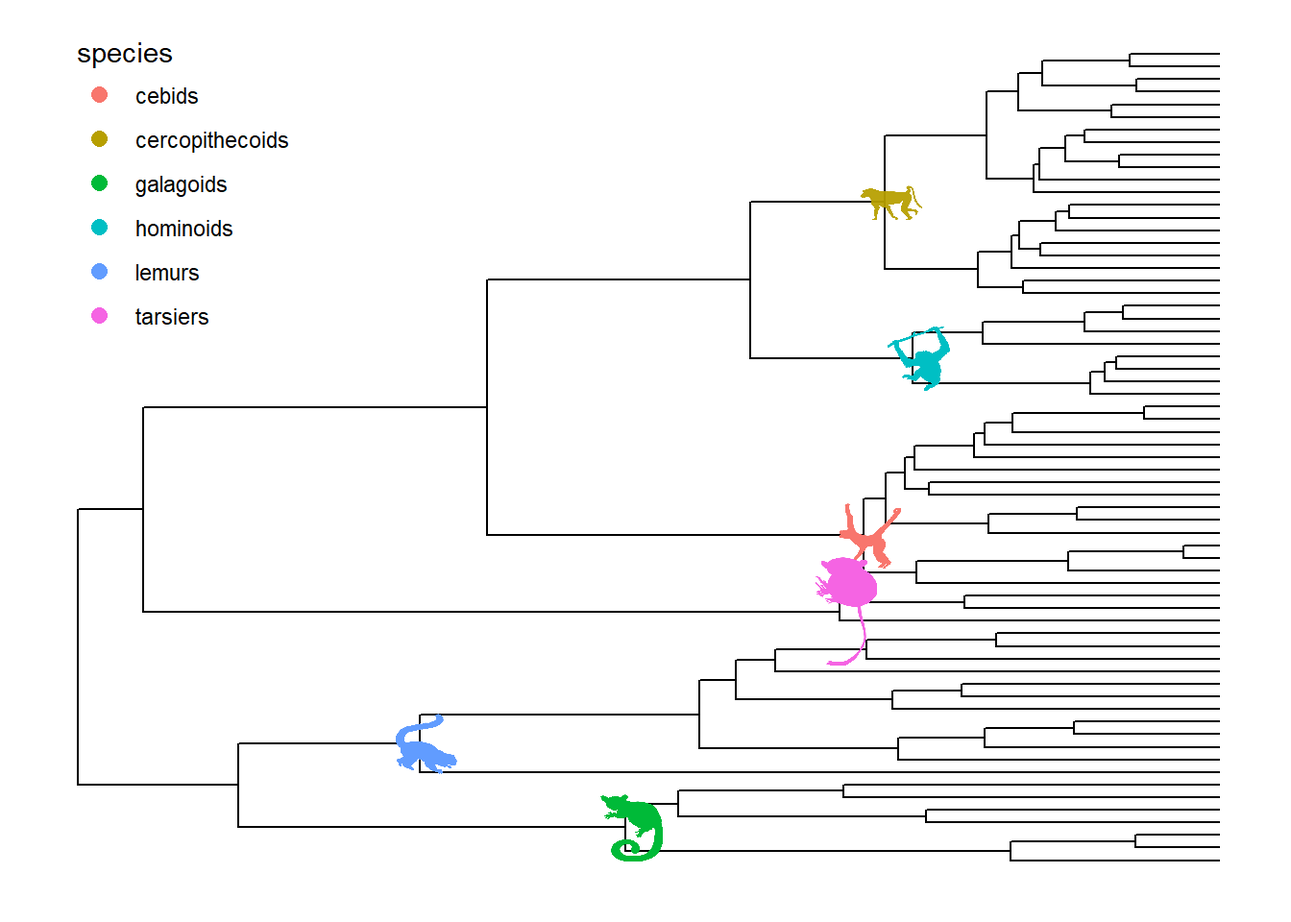
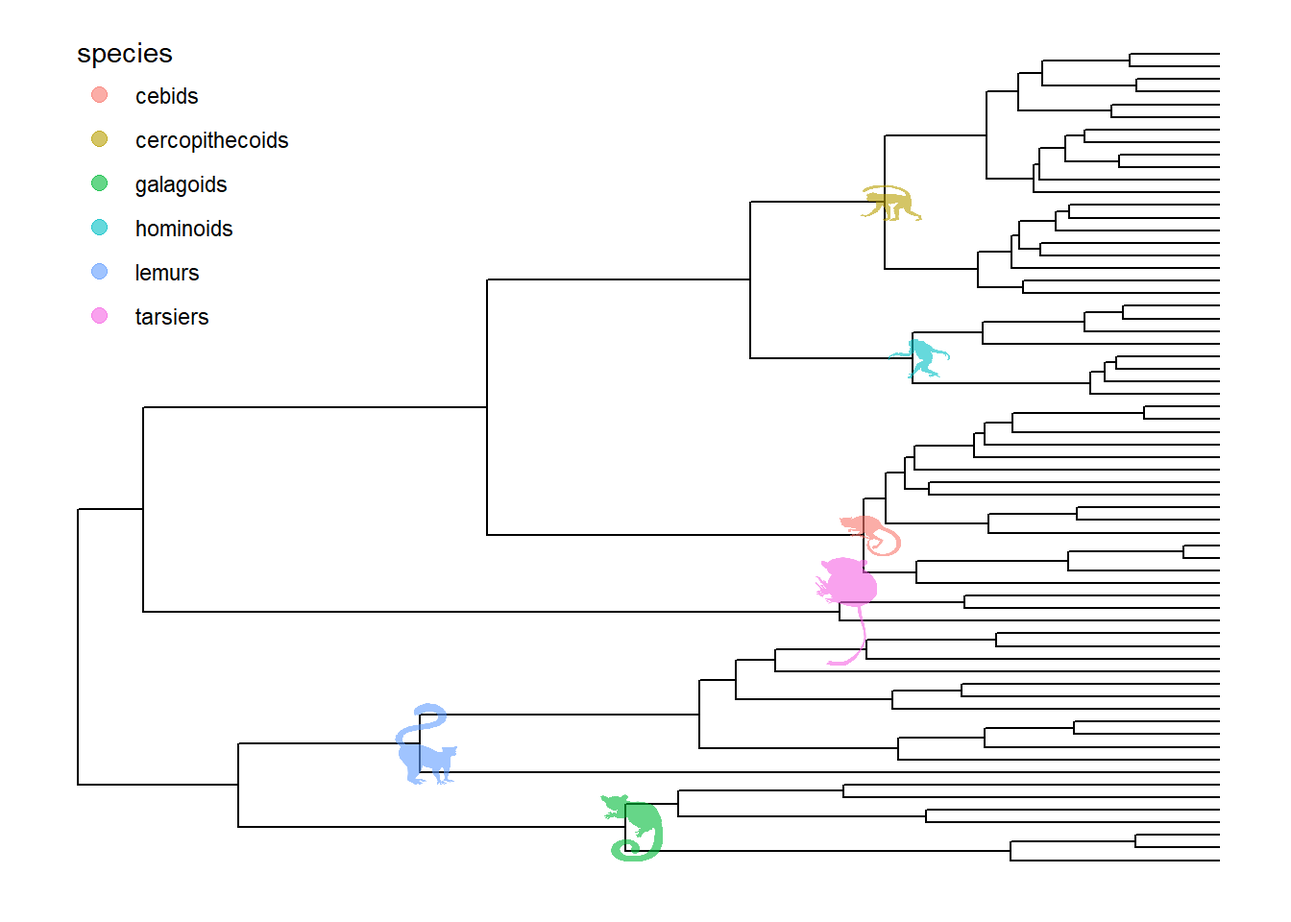
phylopic

diff --git a/docs/chapter8.html b/docs/chapter8.html
@@ -220,14 +220,14 @@ code span.wa { color: #60a0b0; font-weight: bold; font-style: italic; } /* Warni
 <li class="chapter" data-level="7.3" data-path="chapter7.html"><a href="chapter7.html#plot-tree-with-associated-data"><i class="fa fa-check"></i><b>7.3</b> Plot tree with associated data</a></li>
 </ul></li>
 <li class="chapter" data-level="8" data-path="chapter8.html"><a href="chapter8.html"><i class="fa fa-check"></i><b>8</b> Annotating Tree with Silhouette Images and Sub-plots</a><ul>
-<li class="chapter" data-level="8.1" data-path="chapter8.html"><a href="chapter8.html#annotating-tree-with-images"><i class="fa fa-check"></i><b>8.1</b> Annotating Tree with Images</a></li>
-<li class="chapter" data-level="8.2" data-path="chapter8.html"><a href="chapter8.html#annotating-tree-with-phylopic"><i class="fa fa-check"></i><b>8.2</b> Annotating Tree with Phylopic</a></li>
-<li class="chapter" data-level="8.3" data-path="chapter8.html"><a href="chapter8.html#annotating-tree-with-sub-plots"><i class="fa fa-check"></i><b>8.3</b> Annotating Tree with Sub-plots</a><ul>
+<li class="chapter" data-level="8.1" data-path="chapter8.html"><a href="chapter8.html#ggimage"><i class="fa fa-check"></i><b>8.1</b> Annotating Tree with Images</a></li>
+<li class="chapter" data-level="8.2" data-path="chapter8.html"><a href="chapter8.html#phylopic"><i class="fa fa-check"></i><b>8.2</b> Annotating Tree with Phylopic</a></li>
+<li class="chapter" data-level="8.3" data-path="chapter8.html"><a href="chapter8.html#subplots"><i class="fa fa-check"></i><b>8.3</b> Annotating Tree with Sub-plots</a><ul>
 <li class="chapter" data-level="8.3.1" data-path="chapter8.html"><a href="chapter8.html#annotate-with-bar-charts"><i class="fa fa-check"></i><b>8.3.1</b> Annotate with bar charts</a></li>
 <li class="chapter" data-level="8.3.2" data-path="chapter8.html"><a href="chapter8.html#annotate-with-pie-charts"><i class="fa fa-check"></i><b>8.3.2</b> Annotate with pie charts</a></li>
 <li class="chapter" data-level="8.3.3" data-path="chapter8.html"><a href="chapter8.html#annotate-with-other-types-of-charts"><i class="fa fa-check"></i><b>8.3.3</b> Annotate with other types of charts</a></li>
 </ul></li>
-<li class="chapter" data-level="8.4" data-path="chapter8.html"><a href="chapter8.html#have-fun-with-phylomoji"><i class="fa fa-check"></i><b>8.4</b> Have Fun with Phylomoji</a><ul>
+<li class="chapter" data-level="8.4" data-path="chapter8.html"><a href="chapter8.html#phylomoji"><i class="fa fa-check"></i><b>8.4</b> Have Fun with Phylomoji</a><ul>
 <li class="chapter" data-level="8.4.1" data-path="chapter8.html"><a href="chapter8.html#emoji-in-cirularfan-layout-tree"><i class="fa fa-check"></i><b>8.4.1</b> emoji in cirular/fan layout tree</a></li>
 <li class="chapter" data-level="8.4.2" data-path="chapter8.html"><a href="chapter8.html#emoji-to-label-clades"><i class="fa fa-check"></i><b>8.4.2</b> emoji to label clades</a></li>
 <li class="chapter" data-level="8.4.3" data-path="chapter8.html"><a href="chapter8.html#apple-color-emoji"><i class="fa fa-check"></i><b>8.4.3</b> Apple Color Emoji</a></li>
@@ -257,7 +257,7 @@ code span.wa { color: #60a0b0; font-weight: bold; font-style: italic; } /* Warni
             <section class="normal" id="section-">
 <div id="chapter8" class="section level1">
 <h1><span class="header-section-number">Chapter 8</span> Annotating Tree with Silhouette Images and Sub-plots</h1>
-<div id="annotating-tree-with-images" class="section level2">
+<div id="ggimage" class="section level2">
 <h2><span class="header-section-number">8.1</span> Annotating Tree with Images</h2>
 <p>We usually use text to label taxa, i.e. displaying taxa names. If the text is image file name (either local or remote), <strong>ggtree</strong> can read the image and display the actual image as label of the taxa. The <code>geom_tiplab</code> and <code>geom_nodelab</code> are capable to render silhouette image by internally called <a href="https://cran.r-project.org/package=ggimage">ggimage</a> package.</p>
 <pre class="sourceCode r"><code class="sourceCode r"><span class="kw">library</span>(ggimage)
@@ -273,26 +273,42 @@ x =<span class="st"> </span><span class="kw">read.tree</span>(<span class="dt">t
 <span class="st">    </span><span class="kw">geom_image</span>(<span class="dt">x=</span>.<span class="dv">8</span>, <span class="dt">y=</span><span class="fl">5.5</span>, <span class="dt">image=</span><span class="st">&quot;img/frogs/frog.jpg&quot;</span>, <span class="dt">size=</span>.<span class="dv">2</span>)</code></pre>
 <p><img src="treedata_files/figure-html/unnamed-chunk-120-1.png" width="816" /></p>
 </div>
-<div id="annotating-tree-with-phylopic" class="section level2">
+<div id="phylopic" class="section level2">
 <h2><span class="header-section-number">8.2</span> Annotating Tree with Phylopic</h2>
 <p><a href="phylopic.org">Phylopic</a> contains more than 3200 silhouettes and covers almost all life forms. <strong>ggtree</strong> also supports using phylopic<a href="#fn12" class="footnote-ref" id="fnref12"><sup>12</sup></a> to annotate the tree. Most importantly, we can color the image using numerical/categorical variable.</p>
 <pre class="sourceCode r"><code class="sourceCode r">tree &lt;-<span class="st"> </span>ape<span class="op">::</span><span class="kw">read.nexus</span>(<span class="st">&quot;https://raw.githubusercontent.com/rgriff23/Dissertation/master/Chapter_2/data/tree.nex&quot;</span>)
 phylopic_info &lt;-<span class="st"> </span><span class="kw">data.frame</span>(<span class="dt">node =</span> <span class="kw">c</span>(<span class="dv">124</span>, <span class="dv">113</span>, <span class="dv">110</span>, <span class="dv">96</span>, <span class="dv">89</span>, <span class="dv">70</span>),
-                            <span class="dt">phylopic =</span> <span class="kw">c</span>(<span class="st">&quot;7fb9bea8-e758-4986-afb2-95a2c3bf983d&quot;</span>,
-                                        <span class="st">&quot;bac25f49-97a4-4aec-beb6-f542158ebd23&quot;</span>,
-                                        <span class="st">&quot;f598fb39-facf-43ea-a576-1861304b2fe4&quot;</span>,
-                                        <span class="st">&quot;aceb287d-84cf-46f1-868c-4797c4ac54a8&quot;</span>,
-                                        <span class="st">&quot;0174801d-15a6-4668-bfe0-4c421fbe51e8&quot;</span>,
-                                        <span class="st">&quot;72f2f854-f3cd-4666-887c-35d5c256ab0f&quot;</span>),
+                            <span class="dt">phylopic =</span> <span class="kw">c</span>(<span class="st">&quot;c4ac9ea6-b465-4ed0-a5de-9fe4eebd3ef9&quot;</span>,
+                                        <span class="st">&quot;5388a472-994a-48e1-86de-d988c6019e72&quot;</span>,
+                                        <span class="st">&quot;615c82cf-fabe-49f8-b571-e8117edfa212&quot;</span>,
+                                        <span class="st">&quot;63ff1b70-6b6e-4412-b4d2-b2e2fb51aa95&quot;</span>,
+                                        <span class="st">&quot;d65d5abd-df8b-4509-912c-e42f6c34861f&quot;</span>,
+                                        <span class="st">&quot;6d54acc7-9e1e-4b79-be88-4904cf58fbb5&quot;</span>),
                             <span class="dt">species =</span> <span class="kw">c</span>(<span class="st">&quot;galagoids&quot;</span>, <span class="st">&quot;lemurs&quot;</span>, <span class="st">&quot;tarsiers&quot;</span>,
                                         <span class="st">&quot;cebids&quot;</span>, <span class="st">&quot;hominoids&quot;</span>, <span class="st">&quot;cercopithecoids&quot;</span>))
 pg &lt;-<span class="st"> </span><span class="kw">ggtree</span>(tree)
 pg <span class="op">%&lt;+%</span><span class="st"> </span>phylopic_info <span class="op">+</span><span class="st"> </span>
-<span class="st">  </span><span class="kw">geom_nodelab</span>(<span class="kw">aes</span>(<span class="dt">image=</span>phylopic, <span class="dt">color=</span>species, <span class="dt">subset=</span><span class="op">!</span><span class="kw">is.na</span>(species)), <span class="dt">geom=</span><span class="st">&quot;phylopic&quot;</span>) <span class="op">+</span><span class="st"> </span>
+<span class="st">  </span><span class="kw">geom_nodelab</span>(<span class="kw">aes</span>(<span class="dt">image=</span>phylopic, <span class="dt">color=</span>species, <span class="dt">subset=</span><span class="op">!</span><span class="kw">is.na</span>(species)), 
+              <span class="dt">geom=</span><span class="st">&quot;phylopic&quot;</span>, <span class="dt">alpha =</span> <span class="fl">.6</span>) <span class="op">+</span><span class="st"> </span>
 <span class="st">  </span><span class="kw">theme</span>(<span class="dt">legend.position=</span><span class="kw">c</span>(.<span class="dv">1</span>, <span class="fl">.8</span>))</code></pre>
 <p><img src="treedata_files/figure-html/phylopic-1.png" width="672" /></p>
+<p><code>ggimage</code> package supports querying phylopic uid from scientific name, which is very handy for annotating tree with phylopic.</p>
+<pre class="sourceCode r"><code class="sourceCode r"><span class="kw">require</span>(ggtree)
+newick =<span class="st"> &quot;((Pongo_abelii,(Gorilla_gorilla_gorilla,(Pan_paniscus,Pan_troglodytes)Pan,Homo_sapiens)Homininae)Hominidae,Nomascus_leucogenys)Hominoidea;&quot;</span>
+
+tree =<span class="st"> </span><span class="kw">read.tree</span>(<span class="dt">text=</span>newick)
+
+idlist =<span class="st"> </span>ggimage<span class="op">::</span><span class="kw">phylopic_uid</span>(tree<span class="op">$</span>tip.label)
+ids &lt;-<span class="st"> </span><span class="kw">sapply</span>(idlist, <span class="cf">function</span>(x) x[<span class="dv">1</span>,<span class="dv">1</span>])
+
+d &lt;-<span class="st"> </span><span class="kw">data.frame</span>(<span class="dt">label =</span> tree<span class="op">$</span>tip.label, <span class="dt">uid =</span> ids)
+
+p &lt;-<span class="st"> </span><span class="kw">ggtree</span>(tree)
+p <span class="op">%&lt;+%</span><span class="st"> </span>d <span class="op">+</span><span class="st"> </span><span class="kw">geom_tiplab</span>(<span class="kw">aes</span>(<span class="dt">image=</span>uid, <span class="dt">color=</span>label), <span class="dt">geom=</span><span class="st">&quot;phylopic&quot;</span>, <span class="dt">offset=</span><span class="fl">2.5</span>) <span class="op">+</span>
+<span class="st">  </span><span class="kw">geom_tiplab</span>(<span class="kw">aes</span>(<span class="dt">label=</span>label), <span class="dt">offset =</span> <span class="fl">.2</span>) <span class="op">+</span><span class="st"> </span><span class="kw">xlim</span>(<span class="ot">NA</span>, <span class="dv">7</span>)</code></pre>
+<p><img src="treedata_files/figure-html/ggimage_phylopic-1.png" width="672" /></p>
 </div>
-<div id="annotating-tree-with-sub-plots" class="section level2">
+<div id="subplots" class="section level2">
 <h2><span class="header-section-number">8.3</span> Annotating Tree with Sub-plots</h2>
 <p><code>ggtree</code> provides a function, <code>inset</code>, for adding subplots to a phylogenetic tree. The input is a tree graphic object and a named list of ggplot graphic objects (can be any kind of charts), these objects should named by node numbers. To facilitate adding bar and pie charts (e.g. summarized stats of results from ancestral reconstruction) to phylogenetic tree, <em>ggtree</em> provides <code>nodepie</code> and <code>nodebar</code> functions to create a list of pie or bar charts.</p>
 <div id="annotate-with-bar-charts" class="section level3">
@@ -352,7 +368,7 @@ bx2 &lt;-<span class="st"> </span><span class="kw">lapply</span>(bx, <span class
 <p><img src="treedata_files/figure-html/unnamed-chunk-125-1.png" width="672" /></p>
 </div>
 </div>
-<div id="have-fun-with-phylomoji" class="section level2">
+<div id="phylomoji" class="section level2">
 <h2><span class="header-section-number">8.4</span> Have Fun with Phylomoji</h2>
 <p><a href="https://twitter.com/hashtag/phylomoji?src=hash">#phylomoji</a> is fun and it is internally supported by <strong>ggtree</strong> since 2015<a href="#fn13" class="footnote-ref" id="fnref13"><sup>13</sup></a>.</p>
 <p>Here, we will use <strong>ggtree</strong> to recreate the figure:</p>

diff --git a/docs/chapter1.html b/docs/chapter1.html
@@ -220,14 +220,14 @@ code span.wa { color: #60a0b0; font-weight: bold; font-style: italic; } /* Warni
 <li class="chapter" data-level="7.3" data-path="chapter7.html"><a href="chapter7.html#plot-tree-with-associated-data"><i class="fa fa-check"></i><b>7.3</b> Plot tree with associated data</a></li>
 </ul></li>
 <li class="chapter" data-level="8" data-path="chapter8.html"><a href="chapter8.html"><i class="fa fa-check"></i><b>8</b> Annotating Tree with Silhouette Images and Sub-plots</a><ul>
-<li class="chapter" data-level="8.1" data-path="chapter8.html"><a href="chapter8.html#annotating-tree-with-images"><i class="fa fa-check"></i><b>8.1</b> Annotating Tree with Images</a></li>
-<li class="chapter" data-level="8.2" data-path="chapter8.html"><a href="chapter8.html#annotating-tree-with-phylopic"><i class="fa fa-check"></i><b>8.2</b> Annotating Tree with Phylopic</a></li>
-<li class="chapter" data-level="8.3" data-path="chapter8.html"><a href="chapter8.html#annotating-tree-with-sub-plots"><i class="fa fa-check"></i><b>8.3</b> Annotating Tree with Sub-plots</a><ul>
+<li class="chapter" data-level="8.1" data-path="chapter8.html"><a href="chapter8.html#ggimage"><i class="fa fa-check"></i><b>8.1</b> Annotating Tree with Images</a></li>
+<li class="chapter" data-level="8.2" data-path="chapter8.html"><a href="chapter8.html#phylopic"><i class="fa fa-check"></i><b>8.2</b> Annotating Tree with Phylopic</a></li>
+<li class="chapter" data-level="8.3" data-path="chapter8.html"><a href="chapter8.html#subplots"><i class="fa fa-check"></i><b>8.3</b> Annotating Tree with Sub-plots</a><ul>
 <li class="chapter" data-level="8.3.1" data-path="chapter8.html"><a href="chapter8.html#annotate-with-bar-charts"><i class="fa fa-check"></i><b>8.3.1</b> Annotate with bar charts</a></li>
 <li class="chapter" data-level="8.3.2" data-path="chapter8.html"><a href="chapter8.html#annotate-with-pie-charts"><i class="fa fa-check"></i><b>8.3.2</b> Annotate with pie charts</a></li>
 <li class="chapter" data-level="8.3.3" data-path="chapter8.html"><a href="chapter8.html#annotate-with-other-types-of-charts"><i class="fa fa-check"></i><b>8.3.3</b> Annotate with other types of charts</a></li>
 </ul></li>
-<li class="chapter" data-level="8.4" data-path="chapter8.html"><a href="chapter8.html#have-fun-with-phylomoji"><i class="fa fa-check"></i><b>8.4</b> Have Fun with Phylomoji</a><ul>
+<li class="chapter" data-level="8.4" data-path="chapter8.html"><a href="chapter8.html#phylomoji"><i class="fa fa-check"></i><b>8.4</b> Have Fun with Phylomoji</a><ul>
 <li class="chapter" data-level="8.4.1" data-path="chapter8.html"><a href="chapter8.html#emoji-in-cirularfan-layout-tree"><i class="fa fa-check"></i><b>8.4.1</b> emoji in cirular/fan layout tree</a></li>
 <li class="chapter" data-level="8.4.2" data-path="chapter8.html"><a href="chapter8.html#emoji-to-label-clades"><i class="fa fa-check"></i><b>8.4.2</b> emoji to label clades</a></li>
 <li class="chapter" data-level="8.4.3" data-path="chapter8.html"><a href="chapter8.html#apple-color-emoji"><i class="fa fa-check"></i><b>8.4.3</b> Apple Color Emoji</a></li>

diff --git a/docs/chapter2.html b/docs/chapter2.html
@@ -220,14 +220,14 @@ code span.wa { color: #60a0b0; font-weight: bold; font-style: italic; } /* Warni
 <li class="chapter" data-level="7.3" data-path="chapter7.html"><a href="chapter7.html#plot-tree-with-associated-data"><i class="fa fa-check"></i><b>7.3</b> Plot tree with associated data</a></li>
 </ul></li>
 <li class="chapter" data-level="8" data-path="chapter8.html"><a href="chapter8.html"><i class="fa fa-check"></i><b>8</b> Annotating Tree with Silhouette Images and Sub-plots</a><ul>
-<li class="chapter" data-level="8.1" data-path="chapter8.html"><a href="chapter8.html#annotating-tree-with-images"><i class="fa fa-check"></i><b>8.1</b> Annotating Tree with Images</a></li>
-<li class="chapter" data-level="8.2" data-path="chapter8.html"><a href="chapter8.html#annotating-tree-with-phylopic"><i class="fa fa-check"></i><b>8.2</b> Annotating Tree with Phylopic</a></li>
-<li class="chapter" data-level="8.3" data-path="chapter8.html"><a href="chapter8.html#annotating-tree-with-sub-plots"><i class="fa fa-check"></i><b>8.3</b> Annotating Tree with Sub-plots</a><ul>
+<li class="chapter" data-level="8.1" data-path="chapter8.html"><a href="chapter8.html#ggimage"><i class="fa fa-check"></i><b>8.1</b> Annotating Tree with Images</a></li>
+<li class="chapter" data-level="8.2" data-path="chapter8.html"><a href="chapter8.html#phylopic"><i class="fa fa-check"></i><b>8.2</b> Annotating Tree with Phylopic</a></li>
+<li class="chapter" data-level="8.3" data-path="chapter8.html"><a href="chapter8.html#subplots"><i class="fa fa-check"></i><b>8.3</b> Annotating Tree with Sub-plots</a><ul>
 <li class="chapter" data-level="8.3.1" data-path="chapter8.html"><a href="chapter8.html#annotate-with-bar-charts"><i class="fa fa-check"></i><b>8.3.1</b> Annotate with bar charts</a></li>
 <li class="chapter" data-level="8.3.2" data-path="chapter8.html"><a href="chapter8.html#annotate-with-pie-charts"><i class="fa fa-check"></i><b>8.3.2</b> Annotate with pie charts</a></li>
 <li class="chapter" data-level="8.3.3" data-path="chapter8.html"><a href="chapter8.html#annotate-with-other-types-of-charts"><i class="fa fa-check"></i><b>8.3.3</b> Annotate with other types of charts</a></li>
 </ul></li>
-<li class="chapter" data-level="8.4" data-path="chapter8.html"><a href="chapter8.html#have-fun-with-phylomoji"><i class="fa fa-check"></i><b>8.4</b> Have Fun with Phylomoji</a><ul>
+<li class="chapter" data-level="8.4" data-path="chapter8.html"><a href="chapter8.html#phylomoji"><i class="fa fa-check"></i><b>8.4</b> Have Fun with Phylomoji</a><ul>
 <li class="chapter" data-level="8.4.1" data-path="chapter8.html"><a href="chapter8.html#emoji-in-cirularfan-layout-tree"><i class="fa fa-check"></i><b>8.4.1</b> emoji in cirular/fan layout tree</a></li>
 <li class="chapter" data-level="8.4.2" data-path="chapter8.html"><a href="chapter8.html#emoji-to-label-clades"><i class="fa fa-check"></i><b>8.4.2</b> emoji to label clades</a></li>
 <li class="chapter" data-level="8.4.3" data-path="chapter8.html"><a href="chapter8.html#apple-color-emoji"><i class="fa fa-check"></i><b>8.4.3</b> Apple Color Emoji</a></li>

diff --git a/docs/chapter3.html b/docs/chapter3.html
@@ -220,14 +220,14 @@ code span.wa { color: #60a0b0; font-weight: bold; font-style: italic; } /* Warni
 <li class="chapter" data-level="7.3" data-path="chapter7.html"><a href="chapter7.html#plot-tree-with-associated-data"><i class="fa fa-check"></i><b>7.3</b> Plot tree with associated data</a></li>
 </ul></li>
 <li class="chapter" data-level="8" data-path="chapter8.html"><a href="chapter8.html"><i class="fa fa-check"></i><b>8</b> Annotating Tree with Silhouette Images and Sub-plots</a><ul>
-<li class="chapter" data-level="8.1" data-path="chapter8.html"><a href="chapter8.html#annotating-tree-with-images"><i class="fa fa-check"></i><b>8.1</b> Annotating Tree with Images</a></li>
-<li class="chapter" data-level="8.2" data-path="chapter8.html"><a href="chapter8.html#annotating-tree-with-phylopic"><i class="fa fa-check"></i><b>8.2</b> Annotating Tree with Phylopic</a></li>
-<li class="chapter" data-level="8.3" data-path="chapter8.html"><a href="chapter8.html#annotating-tree-with-sub-plots"><i class="fa fa-check"></i><b>8.3</b> Annotating Tree with Sub-plots</a><ul>
+<li class="chapter" data-level="8.1" data-path="chapter8.html"><a href="chapter8.html#ggimage"><i class="fa fa-check"></i><b>8.1</b> Annotating Tree with Images</a></li>
+<li class="chapter" data-level="8.2" data-path="chapter8.html"><a href="chapter8.html#phylopic"><i class="fa fa-check"></i><b>8.2</b> Annotating Tree with Phylopic</a></li>
+<li class="chapter" data-level="8.3" data-path="chapter8.html"><a href="chapter8.html#subplots"><i class="fa fa-check"></i><b>8.3</b> Annotating Tree with Sub-plots</a><ul>
 <li class="chapter" data-level="8.3.1" data-path="chapter8.html"><a href="chapter8.html#annotate-with-bar-charts"><i class="fa fa-check"></i><b>8.3.1</b> Annotate with bar charts</a></li>
 <li class="chapter" data-level="8.3.2" data-path="chapter8.html"><a href="chapter8.html#annotate-with-pie-charts"><i class="fa fa-check"></i><b>8.3.2</b> Annotate with pie charts</a></li>
 <li class="chapter" data-level="8.3.3" data-path="chapter8.html"><a href="chapter8.html#annotate-with-other-types-of-charts"><i class="fa fa-check"></i><b>8.3.3</b> Annotate with other types of charts</a></li>
 </ul></li>
-<li class="chapter" data-level="8.4" data-path="chapter8.html"><a href="chapter8.html#have-fun-with-phylomoji"><i class="fa fa-check"></i><b>8.4</b> Have Fun with Phylomoji</a><ul>
+<li class="chapter" data-level="8.4" data-path="chapter8.html"><a href="chapter8.html#phylomoji"><i class="fa fa-check"></i><b>8.4</b> Have Fun with Phylomoji</a><ul>
 <li class="chapter" data-level="8.4.1" data-path="chapter8.html"><a href="chapter8.html#emoji-in-cirularfan-layout-tree"><i class="fa fa-check"></i><b>8.4.1</b> emoji in cirular/fan layout tree</a></li>
 <li class="chapter" data-level="8.4.2" data-path="chapter8.html"><a href="chapter8.html#emoji-to-label-clades"><i class="fa fa-check"></i><b>8.4.2</b> emoji to label clades</a></li>
 <li class="chapter" data-level="8.4.3" data-path="chapter8.html"><a href="chapter8.html#apple-color-emoji"><i class="fa fa-check"></i><b>8.4.3</b> Apple Color Emoji</a></li>

diff --git a/docs/chapter4.html b/docs/chapter4.html
@@ -220,14 +220,14 @@ code span.wa { color: #60a0b0; font-weight: bold; font-style: italic; } /* Warni
 <li class="chapter" data-level="7.3" data-path="chapter7.html"><a href="chapter7.html#plot-tree-with-associated-data"><i class="fa fa-check"></i><b>7.3</b> Plot tree with associated data</a></li>
 </ul></li>
 <li class="chapter" data-level="8" data-path="chapter8.html"><a href="chapter8.html"><i class="fa fa-check"></i><b>8</b> Annotating Tree with Silhouette Images and Sub-plots</a><ul>
-<li class="chapter" data-level="8.1" data-path="chapter8.html"><a href="chapter8.html#annotating-tree-with-images"><i class="fa fa-check"></i><b>8.1</b> Annotating Tree with Images</a></li>
-<li class="chapter" data-level="8.2" data-path="chapter8.html"><a href="chapter8.html#annotating-tree-with-phylopic"><i class="fa fa-check"></i><b>8.2</b> Annotating Tree with Phylopic</a></li>
-<li class="chapter" data-level="8.3" data-path="chapter8.html"><a href="chapter8.html#annotating-tree-with-sub-plots"><i class="fa fa-check"></i><b>8.3</b> Annotating Tree with Sub-plots</a><ul>
+<li class="chapter" data-level="8.1" data-path="chapter8.html"><a href="chapter8.html#ggimage"><i class="fa fa-check"></i><b>8.1</b> Annotating Tree with Images</a></li>
+<li class="chapter" data-level="8.2" data-path="chapter8.html"><a href="chapter8.html#phylopic"><i class="fa fa-check"></i><b>8.2</b> Annotating Tree with Phylopic</a></li>
+<li class="chapter" data-level="8.3" data-path="chapter8.html"><a href="chapter8.html#subplots"><i class="fa fa-check"></i><b>8.3</b> Annotating Tree with Sub-plots</a><ul>
 <li class="chapter" data-level="8.3.1" data-path="chapter8.html"><a href="chapter8.html#annotate-with-bar-charts"><i class="fa fa-check"></i><b>8.3.1</b> Annotate with bar charts</a></li>
 <li class="chapter" data-level="8.3.2" data-path="chapter8.html"><a href="chapter8.html#annotate-with-pie-charts"><i class="fa fa-check"></i><b>8.3.2</b> Annotate with pie charts</a></li>
 <li class="chapter" data-level="8.3.3" data-path="chapter8.html"><a href="chapter8.html#annotate-with-other-types-of-charts"><i class="fa fa-check"></i><b>8.3.3</b> Annotate with other types of charts</a></li>
 </ul></li>
-<li class="chapter" data-level="8.4" data-path="chapter8.html"><a href="chapter8.html#have-fun-with-phylomoji"><i class="fa fa-check"></i><b>8.4</b> Have Fun with Phylomoji</a><ul>
+<li class="chapter" data-level="8.4" data-path="chapter8.html"><a href="chapter8.html#phylomoji"><i class="fa fa-check"></i><b>8.4</b> Have Fun with Phylomoji</a><ul>
 <li class="chapter" data-level="8.4.1" data-path="chapter8.html"><a href="chapter8.html#emoji-in-cirularfan-layout-tree"><i class="fa fa-check"></i><b>8.4.1</b> emoji in cirular/fan layout tree</a></li>
 <li class="chapter" data-level="8.4.2" data-path="chapter8.html"><a href="chapter8.html#emoji-to-label-clades"><i class="fa fa-check"></i><b>8.4.2</b> emoji to label clades</a></li>
 <li class="chapter" data-level="8.4.3" data-path="chapter8.html"><a href="chapter8.html#apple-color-emoji"><i class="fa fa-check"></i><b>8.4.3</b> Apple Color Emoji</a></li>

diff --git a/docs/chapter5.html b/docs/chapter5.html
@@ -220,14 +220,14 @@ code span.wa { color: #60a0b0; font-weight: bold; font-style: italic; } /* Warni
 <li class="chapter" data-level="7.3" data-path="chapter7.html"><a href="chapter7.html#plot-tree-with-associated-data"><i class="fa fa-check"></i><b>7.3</b> Plot tree with associated data</a></li>
 </ul></li>
 <li class="chapter" data-level="8" data-path="chapter8.html"><a href="chapter8.html"><i class="fa fa-check"></i><b>8</b> Annotating Tree with Silhouette Images and Sub-plots</a><ul>
-<li class="chapter" data-level="8.1" data-path="chapter8.html"><a href="chapter8.html#annotating-tree-with-images"><i class="fa fa-check"></i><b>8.1</b> Annotating Tree with Images</a></li>
-<li class="chapter" data-level="8.2" data-path="chapter8.html"><a href="chapter8.html#annotating-tree-with-phylopic"><i class="fa fa-check"></i><b>8.2</b> Annotating Tree with Phylopic</a></li>
-<li class="chapter" data-level="8.3" data-path="chapter8.html"><a href="chapter8.html#annotating-tree-with-sub-plots"><i class="fa fa-check"></i><b>8.3</b> Annotating Tree with Sub-plots</a><ul>
+<li class="chapter" data-level="8.1" data-path="chapter8.html"><a href="chapter8.html#ggimage"><i class="fa fa-check"></i><b>8.1</b> Annotating Tree with Images</a></li>
+<li class="chapter" data-level="8.2" data-path="chapter8.html"><a href="chapter8.html#phylopic"><i class="fa fa-check"></i><b>8.2</b> Annotating Tree with Phylopic</a></li>
+<li class="chapter" data-level="8.3" data-path="chapter8.html"><a href="chapter8.html#subplots"><i class="fa fa-check"></i><b>8.3</b> Annotating Tree with Sub-plots</a><ul>
 <li class="chapter" data-level="8.3.1" data-path="chapter8.html"><a href="chapter8.html#annotate-with-bar-charts"><i class="fa fa-check"></i><b>8.3.1</b> Annotate with bar charts</a></li>
 <li class="chapter" data-level="8.3.2" data-path="chapter8.html"><a href="chapter8.html#annotate-with-pie-charts"><i class="fa fa-check"></i><b>8.3.2</b> Annotate with pie charts</a></li>
 <li class="chapter" data-level="8.3.3" data-path="chapter8.html"><a href="chapter8.html#annotate-with-other-types-of-charts"><i class="fa fa-check"></i><b>8.3.3</b> Annotate with other types of charts</a></li>
 </ul></li>
-<li class="chapter" data-level="8.4" data-path="chapter8.html"><a href="chapter8.html#have-fun-with-phylomoji"><i class="fa fa-check"></i><b>8.4</b> Have Fun with Phylomoji</a><ul>
+<li class="chapter" data-level="8.4" data-path="chapter8.html"><a href="chapter8.html#phylomoji"><i class="fa fa-check"></i><b>8.4</b> Have Fun with Phylomoji</a><ul>
 <li class="chapter" data-level="8.4.1" data-path="chapter8.html"><a href="chapter8.html#emoji-in-cirularfan-layout-tree"><i class="fa fa-check"></i><b>8.4.1</b> emoji in cirular/fan layout tree</a></li>
 <li class="chapter" data-level="8.4.2" data-path="chapter8.html"><a href="chapter8.html#emoji-to-label-clades"><i class="fa fa-check"></i><b>8.4.2</b> emoji to label clades</a></li>
 <li class="chapter" data-level="8.4.3" data-path="chapter8.html"><a href="chapter8.html#apple-color-emoji"><i class="fa fa-check"></i><b>8.4.3</b> Apple Color Emoji</a></li>

diff --git a/docs/chapter6.html b/docs/chapter6.html
@@ -220,14 +220,14 @@ code span.wa { color: #60a0b0; font-weight: bold; font-style: italic; } /* Warni
 <li class="chapter" data-level="7.3" data-path="chapter7.html"><a href="chapter7.html#plot-tree-with-associated-data"><i class="fa fa-check"></i><b>7.3</b> Plot tree with associated data</a></li>
 </ul></li>
 <li class="chapter" data-level="8" data-path="chapter8.html"><a href="chapter8.html"><i class="fa fa-check"></i><b>8</b> Annotating Tree with Silhouette Images and Sub-plots</a><ul>
-<li class="chapter" data-level="8.1" data-path="chapter8.html"><a href="chapter8.html#annotating-tree-with-images"><i class="fa fa-check"></i><b>8.1</b> Annotating Tree with Images</a></li>
-<li class="chapter" data-level="8.2" data-path="chapter8.html"><a href="chapter8.html#annotating-tree-with-phylopic"><i class="fa fa-check"></i><b>8.2</b> Annotating Tree with Phylopic</a></li>
-<li class="chapter" data-level="8.3" data-path="chapter8.html"><a href="chapter8.html#annotating-tree-with-sub-plots"><i class="fa fa-check"></i><b>8.3</b> Annotating Tree with Sub-plots</a><ul>
+<li class="chapter" data-level="8.1" data-path="chapter8.html"><a href="chapter8.html#ggimage"><i class="fa fa-check"></i><b>8.1</b> Annotating Tree with Images</a></li>
+<li class="chapter" data-level="8.2" data-path="chapter8.html"><a href="chapter8.html#phylopic"><i class="fa fa-check"></i><b>8.2</b> Annotating Tree with Phylopic</a></li>
+<li class="chapter" data-level="8.3" data-path="chapter8.html"><a href="chapter8.html#subplots"><i class="fa fa-check"></i><b>8.3</b> Annotating Tree with Sub-plots</a><ul>
 <li class="chapter" data-level="8.3.1" data-path="chapter8.html"><a href="chapter8.html#annotate-with-bar-charts"><i class="fa fa-check"></i><b>8.3.1</b> Annotate with bar charts</a></li>
 <li class="chapter" data-level="8.3.2" data-path="chapter8.html"><a href="chapter8.html#annotate-with-pie-charts"><i class="fa fa-check"></i><b>8.3.2</b> Annotate with pie charts</a></li>
 <li class="chapter" data-level="8.3.3" data-path="chapter8.html"><a href="chapter8.html#annotate-with-other-types-of-charts"><i class="fa fa-check"></i><b>8.3.3</b> Annotate with other types of charts</a></li>
 </ul></li>
-<li class="chapter" data-level="8.4" data-path="chapter8.html"><a href="chapter8.html#have-fun-with-phylomoji"><i class="fa fa-check"></i><b>8.4</b> Have Fun with Phylomoji</a><ul>
+<li class="chapter" data-level="8.4" data-path="chapter8.html"><a href="chapter8.html#phylomoji"><i class="fa fa-check"></i><b>8.4</b> Have Fun with Phylomoji</a><ul>
 <li class="chapter" data-level="8.4.1" data-path="chapter8.html"><a href="chapter8.html#emoji-in-cirularfan-layout-tree"><i class="fa fa-check"></i><b>8.4.1</b> emoji in cirular/fan layout tree</a></li>
 <li class="chapter" data-level="8.4.2" data-path="chapter8.html"><a href="chapter8.html#emoji-to-label-clades"><i class="fa fa-check"></i><b>8.4.2</b> emoji to label clades</a></li>
 <li class="chapter" data-level="8.4.3" data-path="chapter8.html"><a href="chapter8.html#apple-color-emoji"><i class="fa fa-check"></i><b>8.4.3</b> Apple Color Emoji</a></li>

diff --git a/docs/chapter7.html b/docs/chapter7.html
@@ -220,14 +220,14 @@ code span.wa { color: #60a0b0; font-weight: bold; font-style: italic; } /* Warni
 <li class="chapter" data-level="7.3" data-path="chapter7.html"><a href="chapter7.html#plot-tree-with-associated-data"><i class="fa fa-check"></i><b>7.3</b> Plot tree with associated data</a></li>
 </ul></li>
 <li class="chapter" data-level="8" data-path="chapter8.html"><a href="chapter8.html"><i class="fa fa-check"></i><b>8</b> Annotating Tree with Silhouette Images and Sub-plots</a><ul>
-<li class="chapter" data-level="8.1" data-path="chapter8.html"><a href="chapter8.html#annotating-tree-with-images"><i class="fa fa-check"></i><b>8.1</b> Annotating Tree with Images</a></li>
-<li class="chapter" data-level="8.2" data-path="chapter8.html"><a href="chapter8.html#annotating-tree-with-phylopic"><i class="fa fa-check"></i><b>8.2</b> Annotating Tree with Phylopic</a></li>
-<li class="chapter" data-level="8.3" data-path="chapter8.html"><a href="chapter8.html#annotating-tree-with-sub-plots"><i class="fa fa-check"></i><b>8.3</b> Annotating Tree with Sub-plots</a><ul>
+<li class="chapter" data-level="8.1" data-path="chapter8.html"><a href="chapter8.html#ggimage"><i class="fa fa-check"></i><b>8.1</b> Annotating Tree with Images</a></li>
+<li class="chapter" data-level="8.2" data-path="chapter8.html"><a href="chapter8.html#phylopic"><i class="fa fa-check"></i><b>8.2</b> Annotating Tree with Phylopic</a></li>
+<li class="chapter" data-level="8.3" data-path="chapter8.html"><a href="chapter8.html#subplots"><i class="fa fa-check"></i><b>8.3</b> Annotating Tree with Sub-plots</a><ul>
 <li class="chapter" data-level="8.3.1" data-path="chapter8.html"><a href="chapter8.html#annotate-with-bar-charts"><i class="fa fa-check"></i><b>8.3.1</b> Annotate with bar charts</a></li>
 <li class="chapter" data-level="8.3.2" data-path="chapter8.html"><a href="chapter8.html#annotate-with-pie-charts"><i class="fa fa-check"></i><b>8.3.2</b> Annotate with pie charts</a></li>
 <li class="chapter" data-level="8.3.3" data-path="chapter8.html"><a href="chapter8.html#annotate-with-other-types-of-charts"><i class="fa fa-check"></i><b>8.3.3</b> Annotate with other types of charts</a></li>
 </ul></li>
-<li class="chapter" data-level="8.4" data-path="chapter8.html"><a href="chapter8.html#have-fun-with-phylomoji"><i class="fa fa-check"></i><b>8.4</b> Have Fun with Phylomoji</a><ul>
+<li class="chapter" data-level="8.4" data-path="chapter8.html"><a href="chapter8.html#phylomoji"><i class="fa fa-check"></i><b>8.4</b> Have Fun with Phylomoji</a><ul>
 <li class="chapter" data-level="8.4.1" data-path="chapter8.html"><a href="chapter8.html#emoji-in-cirularfan-layout-tree"><i class="fa fa-check"></i><b>8.4.1</b> emoji in cirular/fan layout tree</a></li>
 <li class="chapter" data-level="8.4.2" data-path="chapter8.html"><a href="chapter8.html#emoji-to-label-clades"><i class="fa fa-check"></i><b>8.4.2</b> emoji to label clades</a></li>
 <li class="chapter" data-level="8.4.3" data-path="chapter8.html"><a href="chapter8.html#apple-color-emoji"><i class="fa fa-check"></i><b>8.4.3</b> Apple Color Emoji</a></li>

diff --git a/docs/chapter9.html b/docs/chapter9.html
@@ -220,14 +220,14 @@ code span.wa { color: #60a0b0; font-weight: bold; font-style: italic; } /* Warni
 <li class="chapter" data-level="7.3" data-path="chapter7.html"><a href="chapter7.html#plot-tree-with-associated-data"><i class="fa fa-check"></i><b>7.3</b> Plot tree with associated data</a></li>
 </ul></li>
 <li class="chapter" data-level="8" data-path="chapter8.html"><a href="chapter8.html"><i class="fa fa-check"></i><b>8</b> Annotating Tree with Silhouette Images and Sub-plots</a><ul>
-<li class="chapter" data-level="8.1" data-path="chapter8.html"><a href="chapter8.html#annotating-tree-with-images"><i class="fa fa-check"></i><b>8.1</b> Annotating Tree with Images</a></li>
-<li class="chapter" data-level="8.2" data-path="chapter8.html"><a href="chapter8.html#annotating-tree-with-phylopic"><i class="fa fa-check"></i><b>8.2</b> Annotating Tree with Phylopic</a></li>
-<li class="chapter" data-level="8.3" data-path="chapter8.html"><a href="chapter8.html#annotating-tree-with-sub-plots"><i class="fa fa-check"></i><b>8.3</b> Annotating Tree with Sub-plots</a><ul>
+<li class="chapter" data-level="8.1" data-path="chapter8.html"><a href="chapter8.html#ggimage"><i class="fa fa-check"></i><b>8.1</b> Annotating Tree with Images</a></li>
+<li class="chapter" data-level="8.2" data-path="chapter8.html"><a href="chapter8.html#phylopic"><i class="fa fa-check"></i><b>8.2</b> Annotating Tree with Phylopic</a></li>
+<li class="chapter" data-level="8.3" data-path="chapter8.html"><a href="chapter8.html#subplots"><i class="fa fa-check"></i><b>8.3</b> Annotating Tree with Sub-plots</a><ul>
 <li class="chapter" data-level="8.3.1" data-path="chapter8.html"><a href="chapter8.html#annotate-with-bar-charts"><i class="fa fa-check"></i><b>8.3.1</b> Annotate with bar charts</a></li>
 <li class="chapter" data-level="8.3.2" data-path="chapter8.html"><a href="chapter8.html#annotate-with-pie-charts"><i class="fa fa-check"></i><b>8.3.2</b> Annotate with pie charts</a></li>
 <li class="chapter" data-level="8.3.3" data-path="chapter8.html"><a href="chapter8.html#annotate-with-other-types-of-charts"><i class="fa fa-check"></i><b>8.3.3</b> Annotate with other types of charts</a></li>
 </ul></li>
-<li class="chapter" data-level="8.4" data-path="chapter8.html"><a href="chapter8.html#have-fun-with-phylomoji"><i class="fa fa-check"></i><b>8.4</b> Have Fun with Phylomoji</a><ul>
+<li class="chapter" data-level="8.4" data-path="chapter8.html"><a href="chapter8.html#phylomoji"><i class="fa fa-check"></i><b>8.4</b> Have Fun with Phylomoji</a><ul>
 <li class="chapter" data-level="8.4.1" data-path="chapter8.html"><a href="chapter8.html#emoji-in-cirularfan-layout-tree"><i class="fa fa-check"></i><b>8.4.1</b> emoji in cirular/fan layout tree</a></li>
 <li class="chapter" data-level="8.4.2" data-path="chapter8.html"><a href="chapter8.html#emoji-to-label-clades"><i class="fa fa-check"></i><b>8.4.2</b> emoji to label clades</a></li>
 <li class="chapter" data-level="8.4.3" data-path="chapter8.html"><a href="chapter8.html#apple-color-emoji"><i class="fa fa-check"></i><b>8.4.3</b> Apple Color Emoji</a></li>

diff --git a/docs/figures-and-tables.html b/docs/figures-and-tables.html
@@ -220,14 +220,14 @@ code span.wa { color: #60a0b0; font-weight: bold; font-style: italic; } /* Warni
 <li class="chapter" data-level="7.3" data-path="chapter7.html"><a href="chapter7.html#plot-tree-with-associated-data"><i class="fa fa-check"></i><b>7.3</b> Plot tree with associated data</a></li>
 </ul></li>
 <li class="chapter" data-level="8" data-path="chapter8.html"><a href="chapter8.html"><i class="fa fa-check"></i><b>8</b> Annotating Tree with Silhouette Images and Sub-plots</a><ul>
-<li class="chapter" data-level="8.1" data-path="chapter8.html"><a href="chapter8.html#annotating-tree-with-images"><i class="fa fa-check"></i><b>8.1</b> Annotating Tree with Images</a></li>
-<li class="chapter" data-level="8.2" data-path="chapter8.html"><a href="chapter8.html#annotating-tree-with-phylopic"><i class="fa fa-check"></i><b>8.2</b> Annotating Tree with Phylopic</a></li>
-<li class="chapter" data-level="8.3" data-path="chapter8.html"><a href="chapter8.html#annotating-tree-with-sub-plots"><i class="fa fa-check"></i><b>8.3</b> Annotating Tree with Sub-plots</a><ul>
+<li class="chapter" data-level="8.1" data-path="chapter8.html"><a href="chapter8.html#ggimage"><i class="fa fa-check"></i><b>8.1</b> Annotating Tree with Images</a></li>
+<li class="chapter" data-level="8.2" data-path="chapter8.html"><a href="chapter8.html#phylopic"><i class="fa fa-check"></i><b>8.2</b> Annotating Tree with Phylopic</a></li>
+<li class="chapter" data-level="8.3" data-path="chapter8.html"><a href="chapter8.html#subplots"><i class="fa fa-check"></i><b>8.3</b> Annotating Tree with Sub-plots</a><ul>
 <li class="chapter" data-level="8.3.1" data-path="chapter8.html"><a href="chapter8.html#annotate-with-bar-charts"><i class="fa fa-check"></i><b>8.3.1</b> Annotate with bar charts</a></li>
 <li class="chapter" data-level="8.3.2" data-path="chapter8.html"><a href="chapter8.html#annotate-with-pie-charts"><i class="fa fa-check"></i><b>8.3.2</b> Annotate with pie charts</a></li>
 <li class="chapter" data-level="8.3.3" data-path="chapter8.html"><a href="chapter8.html#annotate-with-other-types-of-charts"><i class="fa fa-check"></i><b>8.3.3</b> Annotate with other types of charts</a></li>
 </ul></li>
-<li class="chapter" data-level="8.4" data-path="chapter8.html"><a href="chapter8.html#have-fun-with-phylomoji"><i class="fa fa-check"></i><b>8.4</b> Have Fun with Phylomoji</a><ul>
+<li class="chapter" data-level="8.4" data-path="chapter8.html"><a href="chapter8.html#phylomoji"><i class="fa fa-check"></i><b>8.4</b> Have Fun with Phylomoji</a><ul>
 <li class="chapter" data-level="8.4.1" data-path="chapter8.html"><a href="chapter8.html#emoji-in-cirularfan-layout-tree"><i class="fa fa-check"></i><b>8.4.1</b> emoji in cirular/fan layout tree</a></li>
 <li class="chapter" data-level="8.4.2" data-path="chapter8.html"><a href="chapter8.html#emoji-to-label-clades"><i class="fa fa-check"></i><b>8.4.2</b> emoji to label clades</a></li>
 <li class="chapter" data-level="8.4.3" data-path="chapter8.html"><a href="chapter8.html#apple-color-emoji"><i class="fa fa-check"></i><b>8.4.3</b> Apple Color Emoji</a></li>

diff --git a/docs/index.html b/docs/index.html
@@ -220,14 +220,14 @@ code span.wa { color: #60a0b0; font-weight: bold; font-style: italic; } /* Warni
 <li class="chapter" data-level="7.3" data-path="chapter7.html"><a href="chapter7.html#plot-tree-with-associated-data"><i class="fa fa-check"></i><b>7.3</b> Plot tree with associated data</a></li>
 </ul></li>
 <li class="chapter" data-level="8" data-path="chapter8.html"><a href="chapter8.html"><i class="fa fa-check"></i><b>8</b> Annotating Tree with Silhouette Images and Sub-plots</a><ul>
-<li class="chapter" data-level="8.1" data-path="chapter8.html"><a href="chapter8.html#annotating-tree-with-images"><i class="fa fa-check"></i><b>8.1</b> Annotating Tree with Images</a></li>
-<li class="chapter" data-level="8.2" data-path="chapter8.html"><a href="chapter8.html#annotating-tree-with-phylopic"><i class="fa fa-check"></i><b>8.2</b> Annotating Tree with Phylopic</a></li>
-<li class="chapter" data-level="8.3" data-path="chapter8.html"><a href="chapter8.html#annotating-tree-with-sub-plots"><i class="fa fa-check"></i><b>8.3</b> Annotating Tree with Sub-plots</a><ul>
+<li class="chapter" data-level="8.1" data-path="chapter8.html"><a href="chapter8.html#ggimage"><i class="fa fa-check"></i><b>8.1</b> Annotating Tree with Images</a></li>
+<li class="chapter" data-level="8.2" data-path="chapter8.html"><a href="chapter8.html#phylopic"><i class="fa fa-check"></i><b>8.2</b> Annotating Tree with Phylopic</a></li>
+<li class="chapter" data-level="8.3" data-path="chapter8.html"><a href="chapter8.html#subplots"><i class="fa fa-check"></i><b>8.3</b> Annotating Tree with Sub-plots</a><ul>
 <li class="chapter" data-level="8.3.1" data-path="chapter8.html"><a href="chapter8.html#annotate-with-bar-charts"><i class="fa fa-check"></i><b>8.3.1</b> Annotate with bar charts</a></li>
 <li class="chapter" data-level="8.3.2" data-path="chapter8.html"><a href="chapter8.html#annotate-with-pie-charts"><i class="fa fa-check"></i><b>8.3.2</b> Annotate with pie charts</a></li>
 <li class="chapter" data-level="8.3.3" data-path="chapter8.html"><a href="chapter8.html#annotate-with-other-types-of-charts"><i class="fa fa-check"></i><b>8.3.3</b> Annotate with other types of charts</a></li>
 </ul></li>
-<li class="chapter" data-level="8.4" data-path="chapter8.html"><a href="chapter8.html#have-fun-with-phylomoji"><i class="fa fa-check"></i><b>8.4</b> Have Fun with Phylomoji</a><ul>
+<li class="chapter" data-level="8.4" data-path="chapter8.html"><a href="chapter8.html#phylomoji"><i class="fa fa-check"></i><b>8.4</b> Have Fun with Phylomoji</a><ul>
 <li class="chapter" data-level="8.4.1" data-path="chapter8.html"><a href="chapter8.html#emoji-in-cirularfan-layout-tree"><i class="fa fa-check"></i><b>8.4.1</b> emoji in cirular/fan layout tree</a></li>
 <li class="chapter" data-level="8.4.2" data-path="chapter8.html"><a href="chapter8.html#emoji-to-label-clades"><i class="fa fa-check"></i><b>8.4.2</b> emoji to label clades</a></li>
 <li class="chapter" data-level="8.4.3" data-path="chapter8.html"><a href="chapter8.html#apple-color-emoji"><i class="fa fa-check"></i><b>8.4.3</b> Apple Color Emoji</a></li>

diff --git a/docs/references.html b/docs/references.html
@@ -220,14 +220,14 @@ code span.wa { color: #60a0b0; font-weight: bold; font-style: italic; } /* Warni
 <li class="chapter" data-level="7.3" data-path="chapter7.html"><a href="chapter7.html#plot-tree-with-associated-data"><i class="fa fa-check"></i><b>7.3</b> Plot tree with associated data</a></li>
 </ul></li>
 <li class="chapter" data-level="8" data-path="chapter8.html"><a href="chapter8.html"><i class="fa fa-check"></i><b>8</b> Annotating Tree with Silhouette Images and Sub-plots</a><ul>
-<li class="chapter" data-level="8.1" data-path="chapter8.html"><a href="chapter8.html#annotating-tree-with-images"><i class="fa fa-check"></i><b>8.1</b> Annotating Tree with Images</a></li>
-<li class="chapter" data-level="8.2" data-path="chapter8.html"><a href="chapter8.html#annotating-tree-with-phylopic"><i class="fa fa-check"></i><b>8.2</b> Annotating Tree with Phylopic</a></li>
-<li class="chapter" data-level="8.3" data-path="chapter8.html"><a href="chapter8.html#annotating-tree-with-sub-plots"><i class="fa fa-check"></i><b>8.3</b> Annotating Tree with Sub-plots</a><ul>
+<li class="chapter" data-level="8.1" data-path="chapter8.html"><a href="chapter8.html#ggimage"><i class="fa fa-check"></i><b>8.1</b> Annotating Tree with Images</a></li>
+<li class="chapter" data-level="8.2" data-path="chapter8.html"><a href="chapter8.html#phylopic"><i class="fa fa-check"></i><b>8.2</b> Annotating Tree with Phylopic</a></li>
+<li class="chapter" data-level="8.3" data-path="chapter8.html"><a href="chapter8.html#subplots"><i class="fa fa-check"></i><b>8.3</b> Annotating Tree with Sub-plots</a><ul>
 <li class="chapter" data-level="8.3.1" data-path="chapter8.html"><a href="chapter8.html#annotate-with-bar-charts"><i class="fa fa-check"></i><b>8.3.1</b> Annotate with bar charts</a></li>
 <li class="chapter" data-level="8.3.2" data-path="chapter8.html"><a href="chapter8.html#annotate-with-pie-charts"><i class="fa fa-check"></i><b>8.3.2</b> Annotate with pie charts</a></li>
 <li class="chapter" data-level="8.3.3" data-path="chapter8.html"><a href="chapter8.html#annotate-with-other-types-of-charts"><i class="fa fa-check"></i><b>8.3.3</b> Annotate with other types of charts</a></li>
 </ul></li>
-<li class="chapter" data-level="8.4" data-path="chapter8.html"><a href="chapter8.html#have-fun-with-phylomoji"><i class="fa fa-check"></i><b>8.4</b> Have Fun with Phylomoji</a><ul>
+<li class="chapter" data-level="8.4" data-path="chapter8.html"><a href="chapter8.html#phylomoji"><i class="fa fa-check"></i><b>8.4</b> Have Fun with Phylomoji</a><ul>
 <li class="chapter" data-level="8.4.1" data-path="chapter8.html"><a href="chapter8.html#emoji-in-cirularfan-layout-tree"><i class="fa fa-check"></i><b>8.4.1</b> emoji in cirular/fan layout tree</a></li>
 <li class="chapter" data-level="8.4.2" data-path="chapter8.html"><a href="chapter8.html#emoji-to-label-clades"><i class="fa fa-check"></i><b>8.4.2</b> emoji to label clades</a></li>
 <li class="chapter" data-level="8.4.3" data-path="chapter8.html"><a href="chapter8.html#apple-color-emoji"><i class="fa fa-check"></i><b>8.4.3</b> Apple Color Emoji</a></li>
